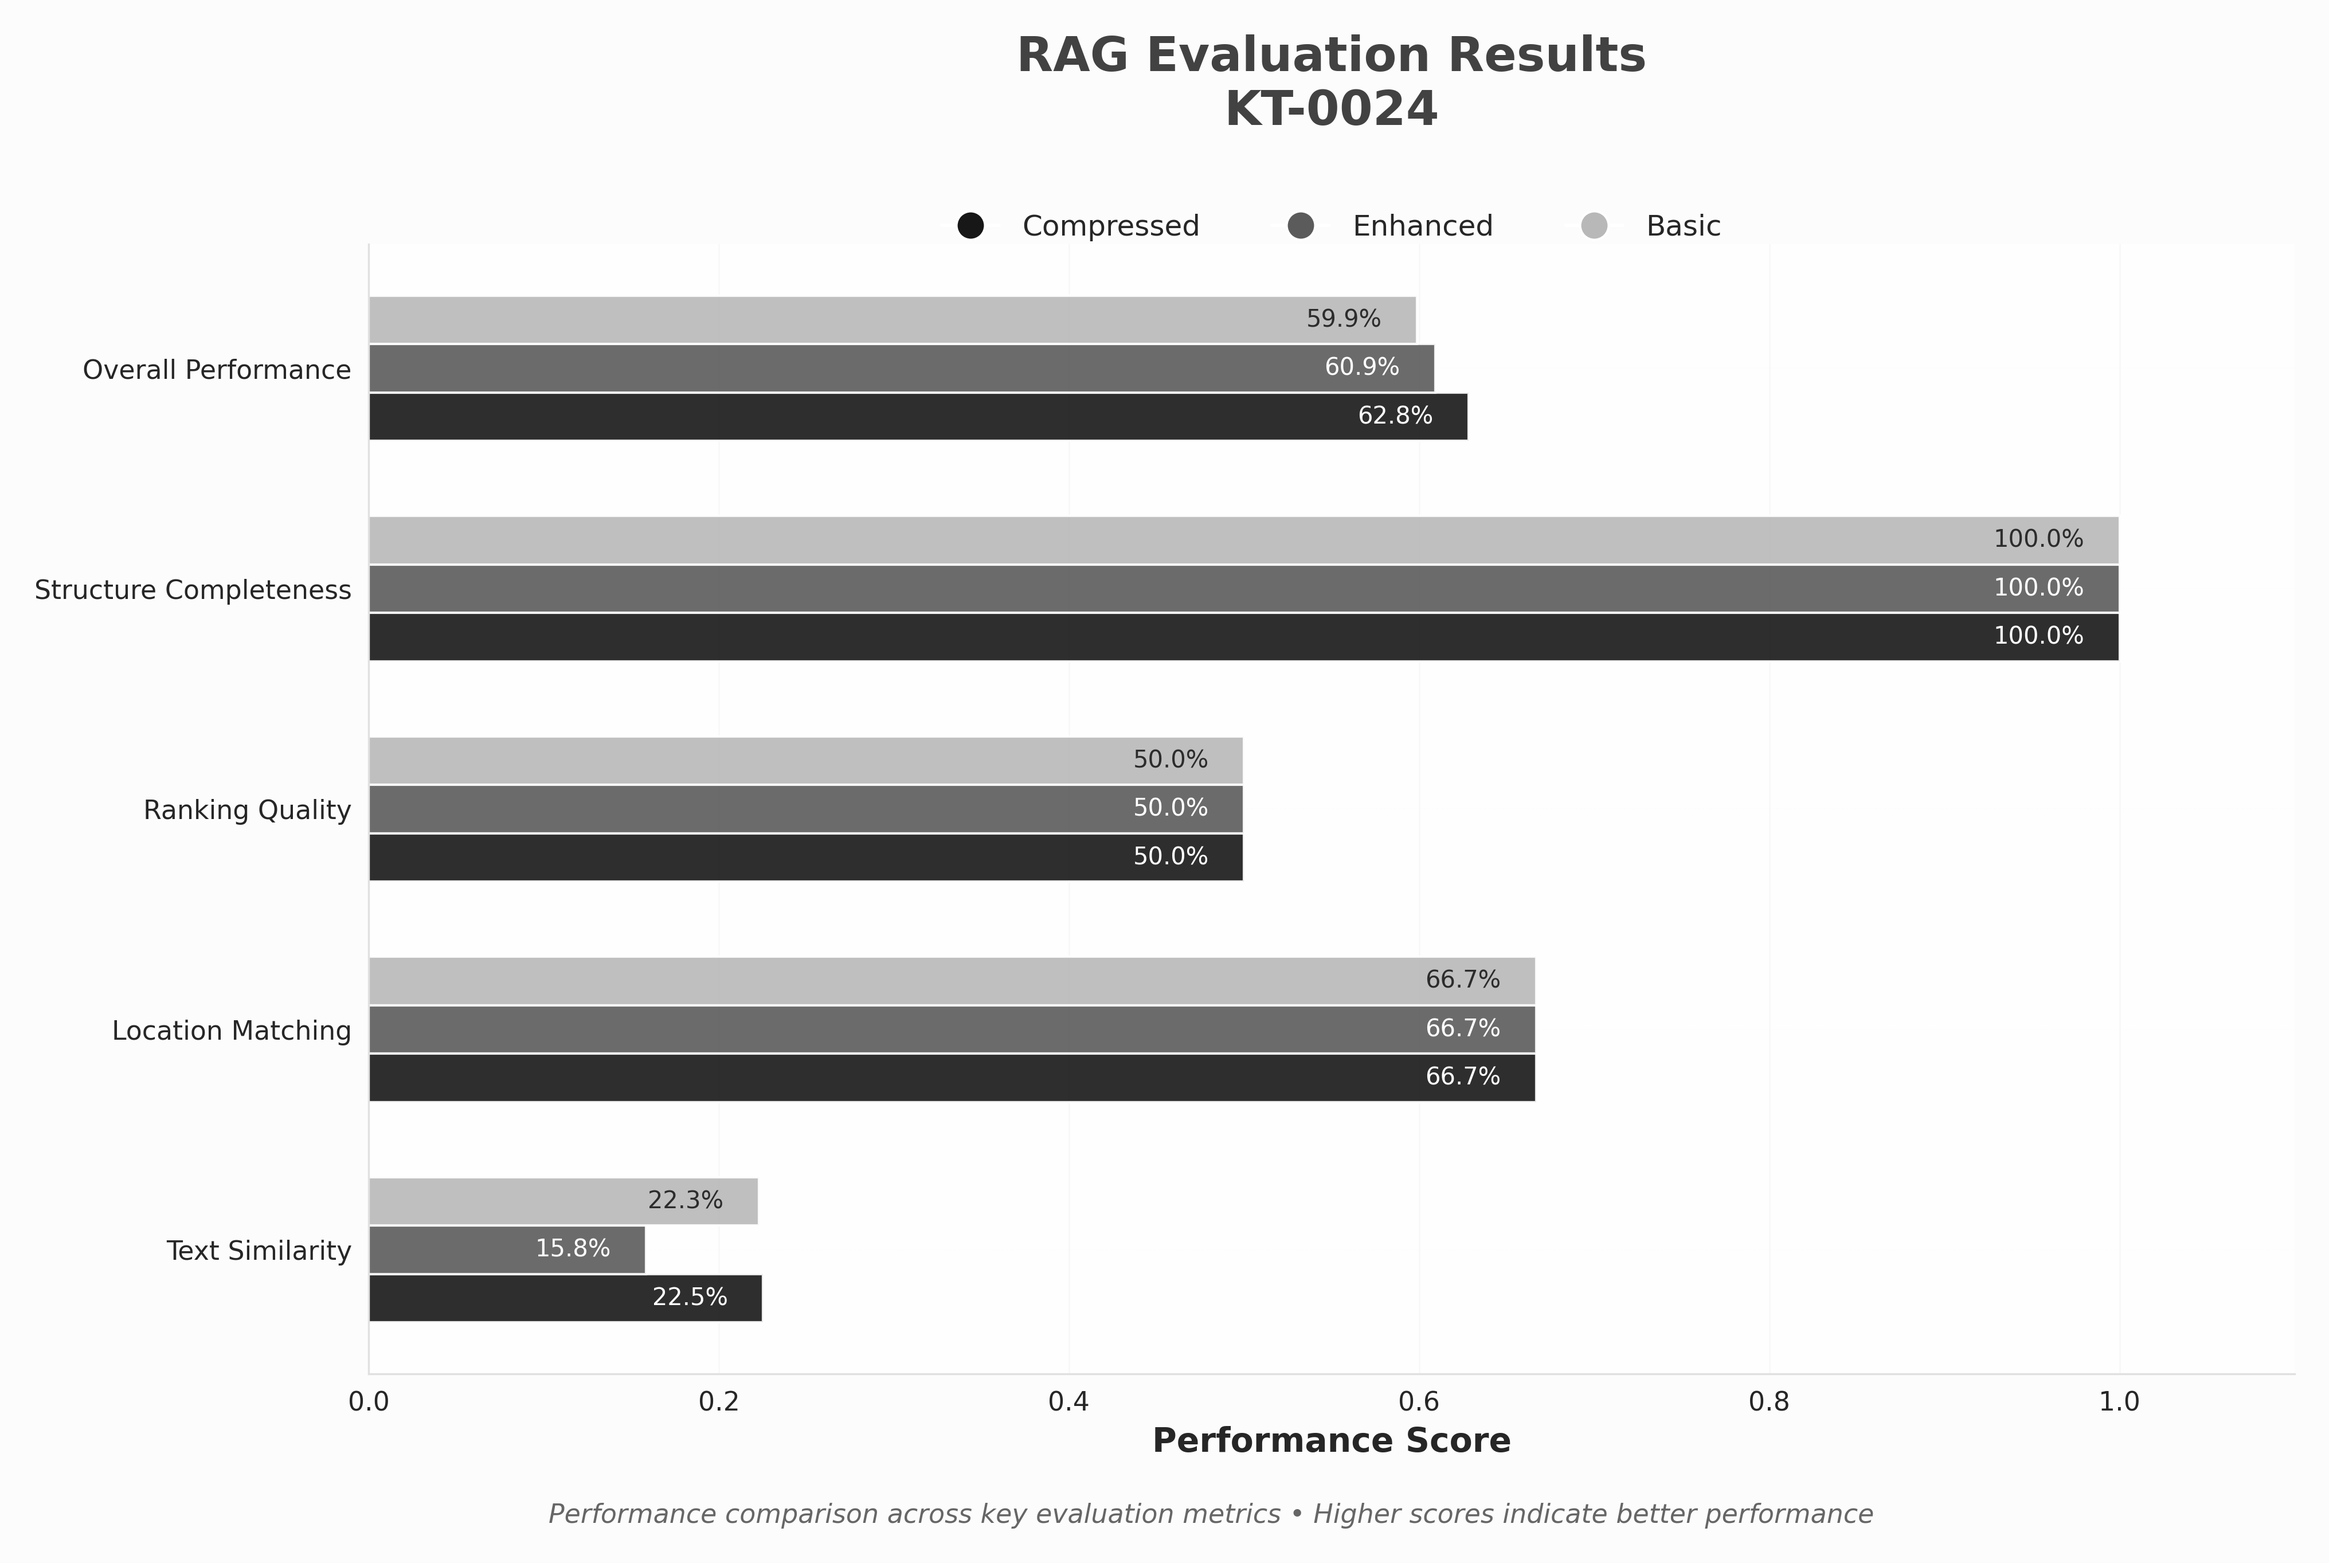
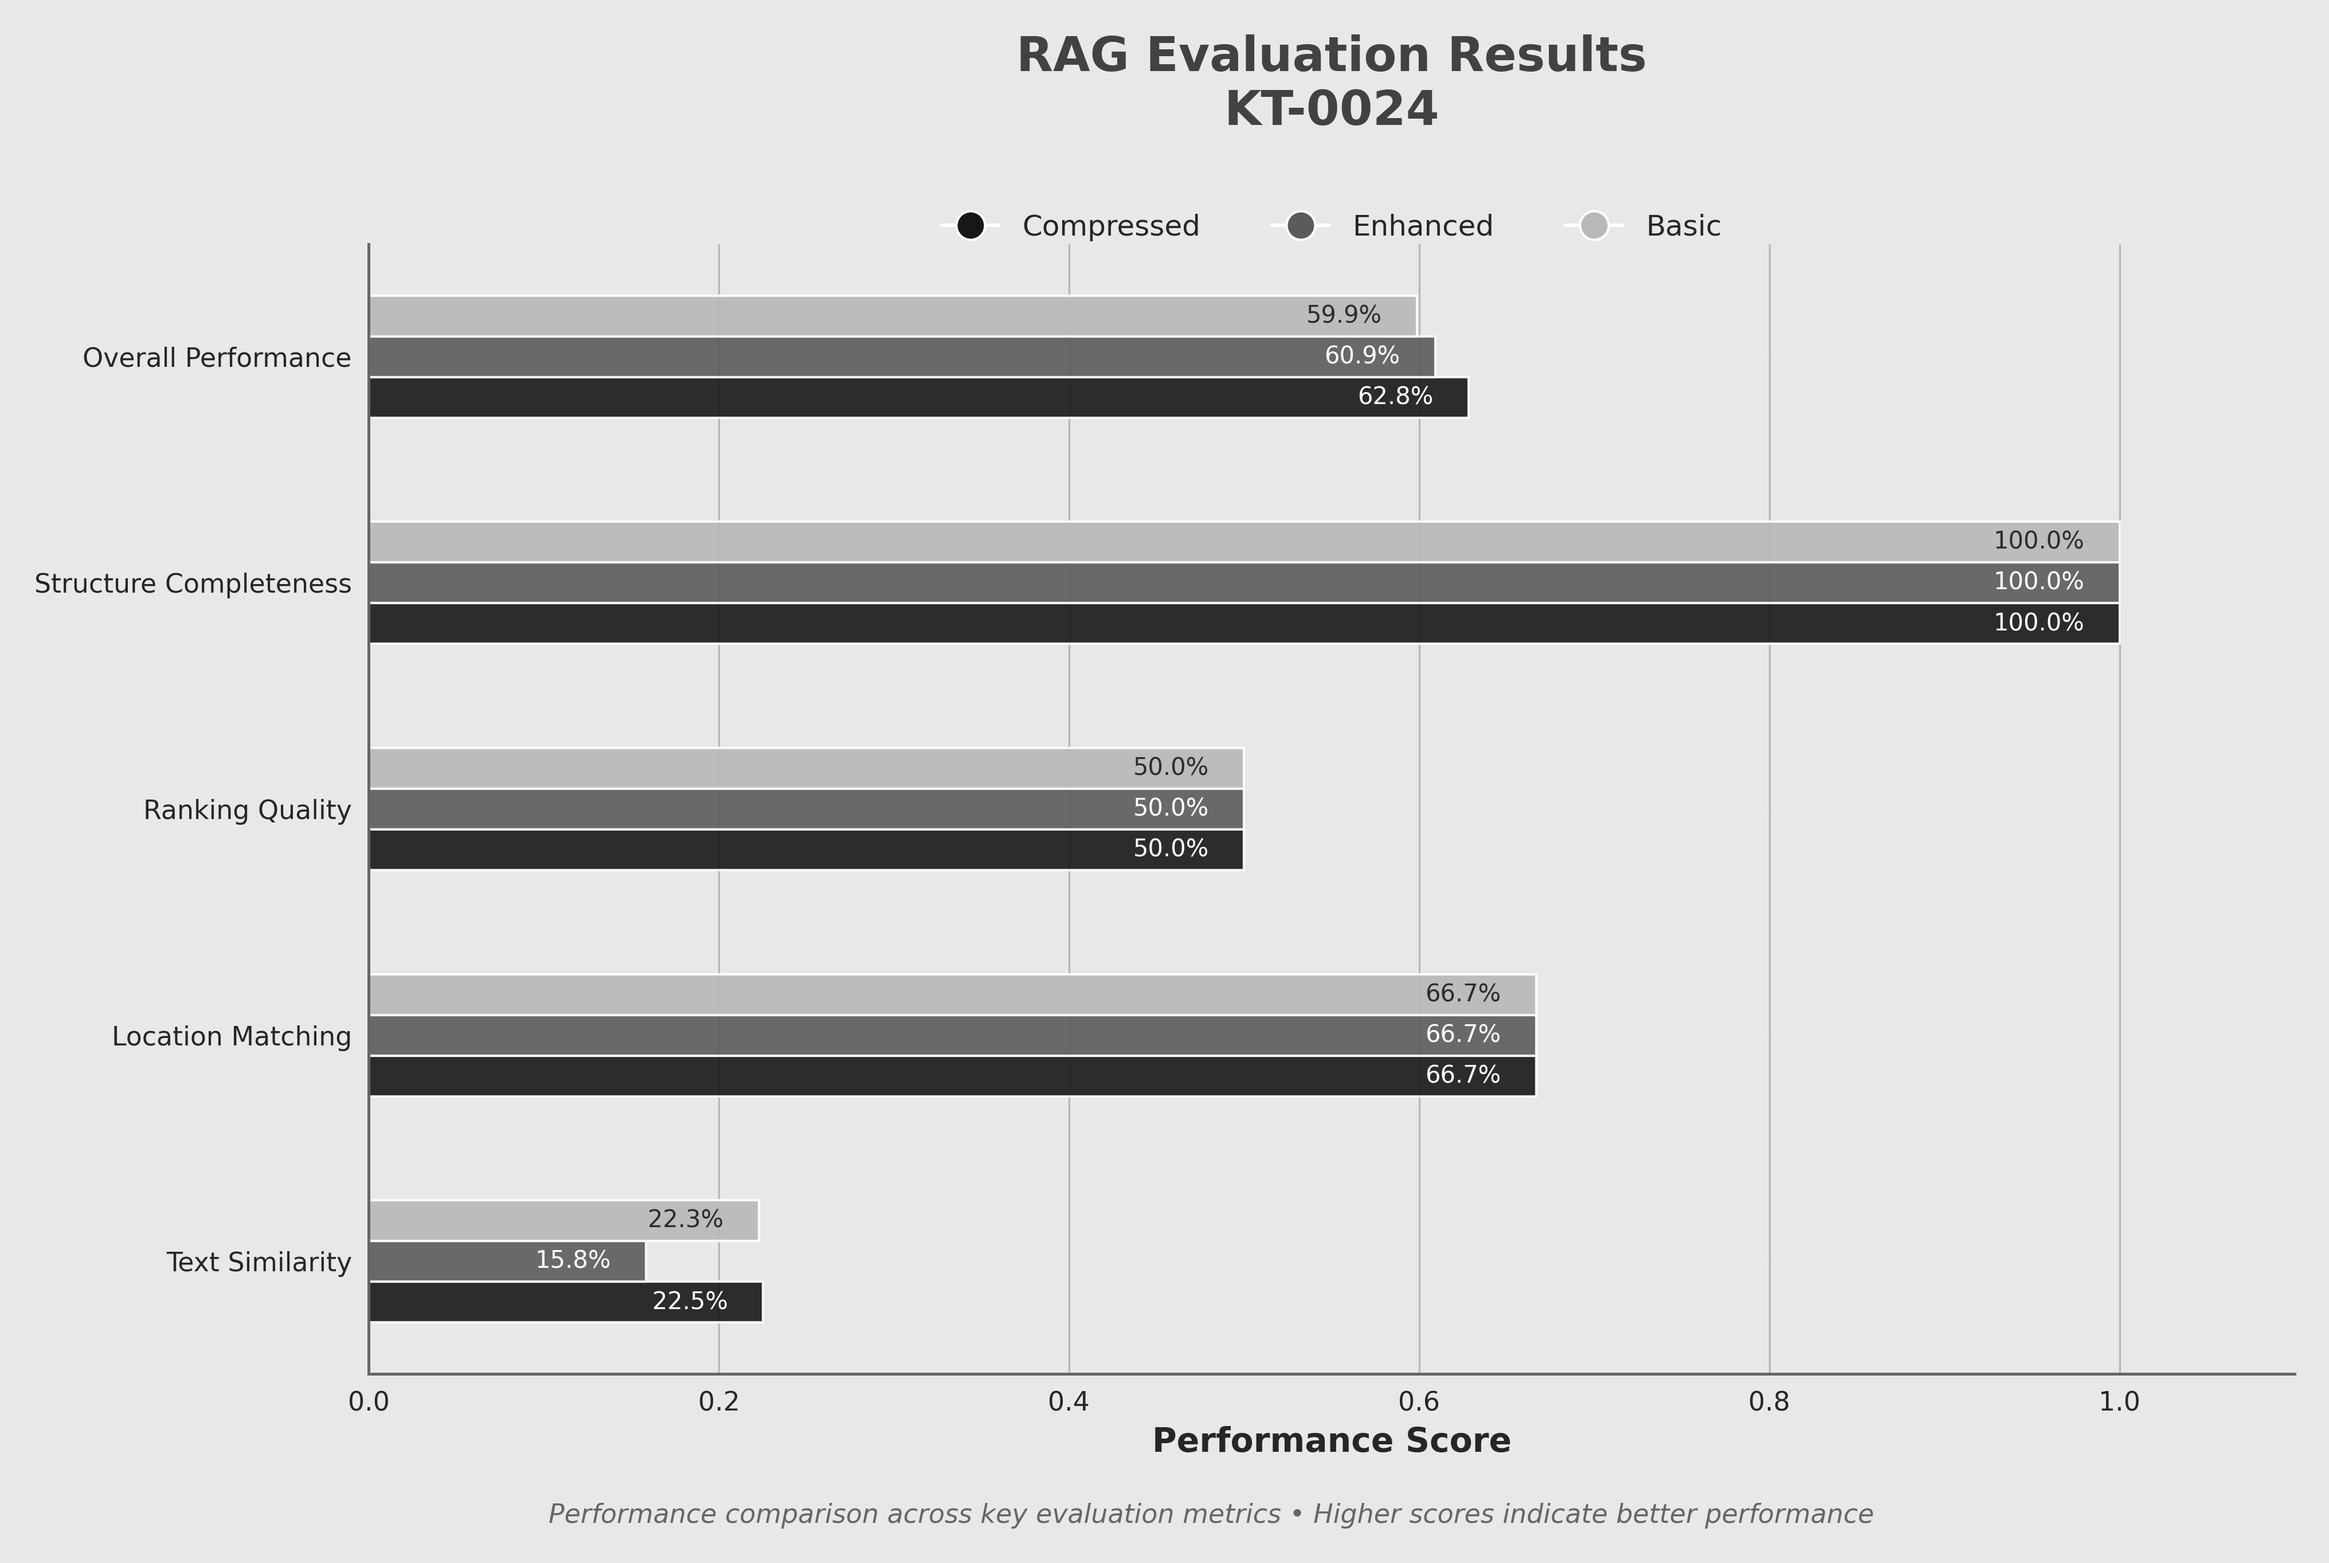
fix: Adjust the chart style

diff --git a/evalulate/utils/chart_generate.py b/evalulate/utils/chart_generate.py
@@ -18,7 +18,6 @@ sys.path.insert(0, os.path.dirname(os.path.dirname(os.path.abspath(__file__))))
 # 第三方库导入
 try:
     import matplotlib.pyplot as plt
-    import matplotlib.patheffects as path_effects
     import seaborn as sns
 
     PLOTTING_AVAILABLE = True
@@ -235,8 +234,8 @@ class RAGChartGenerator:
         fig, ax = plt.subplots(figsize=(14, 9), dpi=100)
 
         # 设置更优雅的背景
-        fig.patch.set_facecolor("#FCFCFC")  # 更柔和的背景
-        ax.set_facecolor("#FEFEFE")  # 纯白图表区域
+        fig.patch.set_facecolor("#E8E8E8")  # 灰色背景
+        ax.set_facecolor("#E8E8E8")  # 灰色图表区域
 
         # 准备数据
         metrics = list(self.key_metrics.keys())
@@ -245,7 +244,7 @@ class RAGChartGenerator:
 
         # 计算条形图的位置 - 增加条形高度使其更突出
         y_positions = np.arange(len(metrics))
-        bar_height = 0.22  # 稍微减小以避免重叠
+        bar_height = 0.18  # 稍微减小以避免重叠
 
         # 为每个策略绘制条形图 - 确保compressed在上，enhanced在中，basic在下
         for i, strategy in enumerate(strategies):
@@ -294,8 +293,9 @@ class RAGChartGenerator:
 
         # 设置更柔和的网格
         ax.grid(
-            True, axis="x", alpha=0.3, linestyle="-", linewidth=0.6, color="#E8E8E8"
+            True, axis="x", alpha=0.6, linestyle="-", linewidth=0.8, color="#999999"
         )
+        ax.set_axisbelow(True)
         ax.grid(
             True, axis="y", alpha=0.15, linestyle=":", linewidth=0.4, color="#F0F0F0"
         )
@@ -336,10 +336,10 @@ class RAGChartGenerator:
         # 柔和的边框
         ax.spines["top"].set_visible(False)
         ax.spines["right"].set_visible(False)
-        ax.spines["left"].set_linewidth(0.8)
-        ax.spines["left"].set_color("#E0E0E0")
-        ax.spines["bottom"].set_linewidth(0.8)
-        ax.spines["bottom"].set_color("#E0E0E0")
+        ax.spines["left"].set_linewidth(1.2)
+        ax.spines["left"].set_color("#666666")  # 更深的颜色
+        ax.spines["bottom"].set_linewidth(1.2)
+        ax.spines["bottom"].set_color("#666666")  # 更深的颜色
 
         # 添加更优雅的子标题说明
         subtitle = "Performance comparison across key evaluation metrics • Higher scores indicate better performance"
@@ -365,7 +365,7 @@ class RAGChartGenerator:
             output_path,
             dpi=300,
             bbox_inches="tight",
-            facecolor="#FCFCFC",  # 匹配背景色
+            facecolor="#E8E8E8",  # 匹配背景色
             edgecolor="none",
             pad_inches=0.2,  # 增加边距
             format="png",
